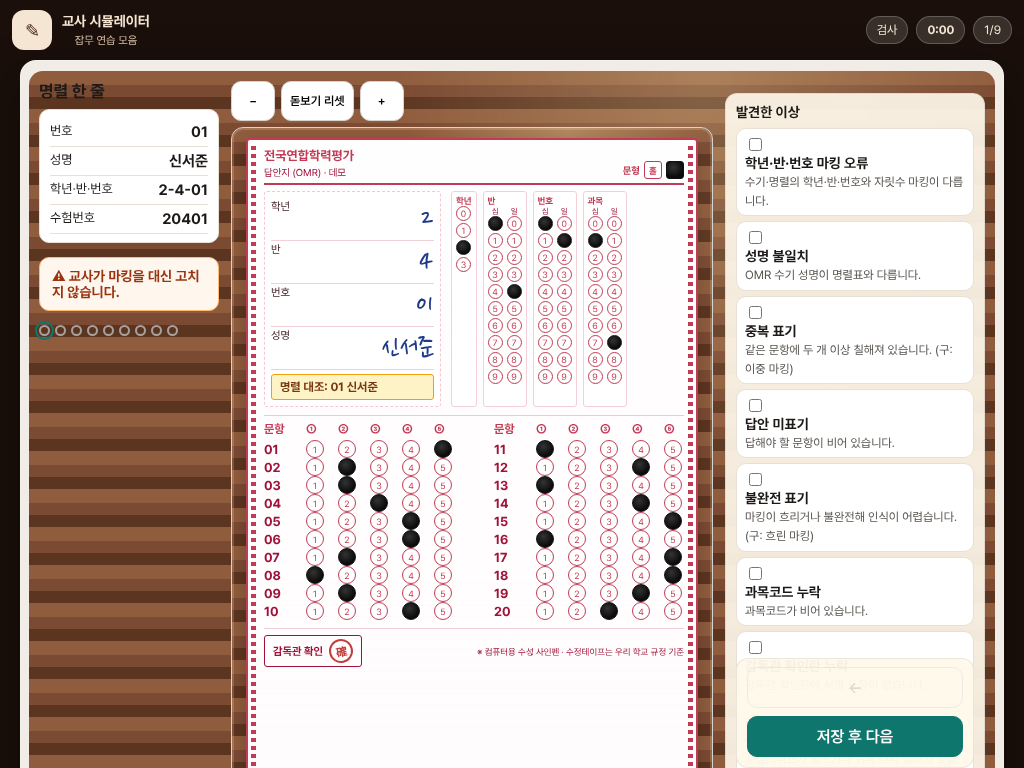
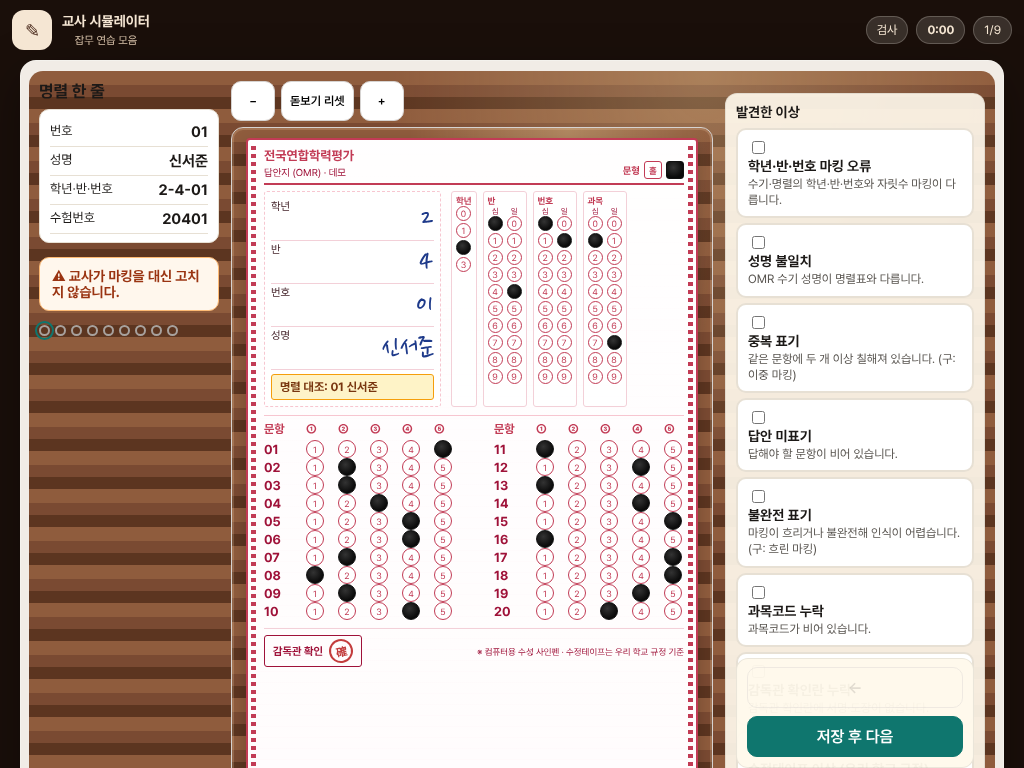
Round 0046: stronger error-check selected states
Make selected inspection checkboxes orange (errors) or green
(이상 없음) so judgment state is obvious.

Changed region(s): [[0.7188, 0.1875, 0.9688, 0.875]]

diff --git a/src/style.css b/src/style.css
@@ -1580,3 +1580,33 @@ kbd {
 .diff-best.has {
   color: #0f766e;
 }
+
+
+/* 0046 stronger error-check selected states */
+.check {
+  border-width: 2px !important;
+  border-radius: 10px !important;
+  padding: 8px 10px !important;
+  transition: background 0.12s, border-color 0.12s, box-shadow 0.12s;
+}
+.check.on:not(.ok) {
+  background: #fff7ed !important;
+  border-color: #fb923c !important;
+  box-shadow: 0 0 0 2px rgba(251,146,60,0.22);
+}
+.check.ok.on {
+  background: #f0fdf4 !important;
+  border-color: #22c55e !important;
+  box-shadow: 0 0 0 2px rgba(34,197,94,0.22);
+}
+.check-body strong {
+  font-size: 13px !important;
+}
+.check-body small {
+  font-size: 11px !important;
+  line-height: 1.35;
+  display: block;
+  margin-top: 2px;
+}
+.check.on:not(.ok) .check-body strong { color: #9a3412; }
+.check.ok.on .check-body strong { color: #166534; }

diff --git a/src/main.ts b/src/main.ts
@@ -714,7 +714,7 @@ function renderInspection() {
 
   const checks = JUDGABLE_ERRORS.map((e) => {
     const on = selected.has(e)
-    return `<label class="check ${on ? 'on' : ''} ${e === 'ok' ? 'ok' : ''}">
+    return `<label class="check check-${e} ${on ? 'on' : ''} ${e === 'ok' ? 'ok' : ''}" data-err="${e}">
       <input type="checkbox" value="${e}" ${on ? 'checked' : ''}/>
       <span class="check-body"><strong>${ERROR_LABELS[e]}</strong><small>${ERROR_HINTS[e]}</small></span>
     </label>`

diff --git a/docs/issues/0046-check-selected.md b/docs/issues/0046-check-selected.md
@@ -1,0 +1,10 @@
+# 0046 Stronger error-check selected states
+
+## Critique
+Selected error checkboxes barely differed from idle.
+
+## Fix
+Orange selected for error types; green for «이상 없음»; larger labels.
+
+## Verify
+e2e OK · viewport OK

diff --git a/docs/ROUNDLOG.md b/docs/ROUNDLOG.md
@@ -64,3 +64,6 @@
 
 ## Round 0045 (02:54 KST)
 - Difficulty card meta chips
+
+## Round 0046 (02:54 KST)
+- Stronger error-check selected states
